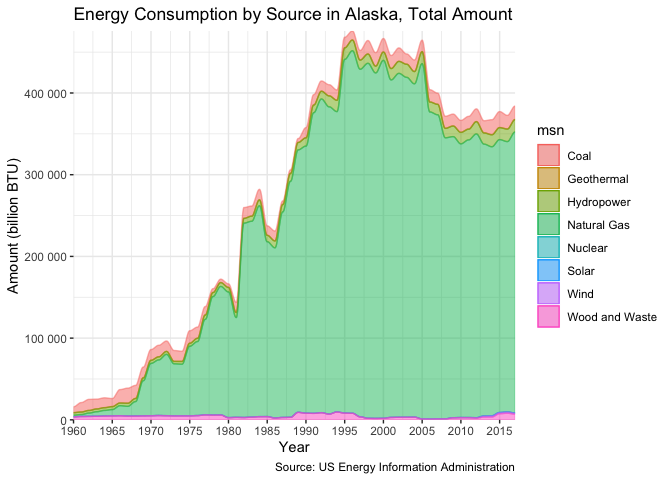
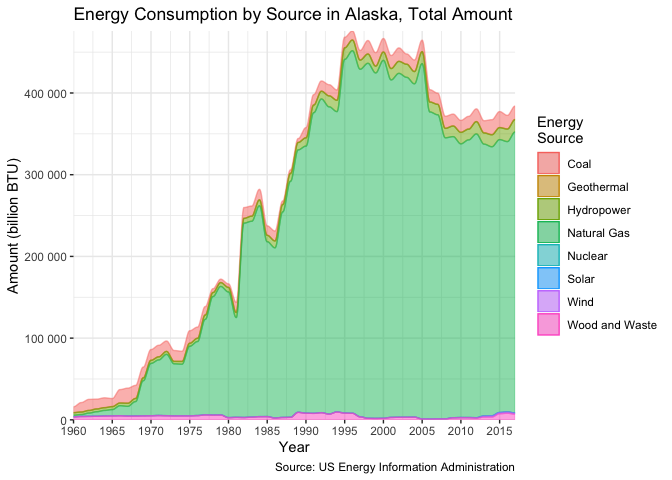
fix

Changed region(s): [[0.7812, 0.25, 1.0, 0.7188]]

diff --git a/eda/energy_consumption.md b/eda/energy_consumption.md
@@ -1,7 +1,7 @@
 Energy Consumption Sources by State
 ================
 Avery Rogers
-2020-02-02
+2020-02-05
 
   - [Part I: Energy Consumption for Electricity by State and
     Year](#part-i-energy-consumption-for-electricity-by-state-and-year)
@@ -13,14 +13,17 @@ Avery Rogers
       - [Example plot: Alaska](#example-plot-alaska)
       - [Greatest Consumers By
         Fraction](#greatest-consumers-by-fraction)
+      - [Example: Wood and Waste 2017](#example-wood-and-waste-2017)
   - [Part II: Energy Usage by
     Population](#part-ii-energy-usage-by-population)
       - [Cleaning Population Data](#cleaning-population-data)
       - [Combining The Tibbles](#combining-the-tibbles)
       - [Total Energy Consumption Per Capita by State over
         Time](#total-energy-consumption-per-capita-by-state-over-time)
+      - [Example States](#example-states)
       - [State energy consumption per capita by
         source](#state-energy-consumption-per-capita-by-source)
+      - [Example: Maine](#example-maine)
 
 ``` r
 # Libraries
@@ -199,7 +202,9 @@ plot_amount <- function(state_abbv, state) {
       x = "Year",
       y = "Amount (billion BTU)" ,
       title = str_glue("Energy Consumption by Source in {state}, Total Amount"),
-      caption = "Source: US Energy Information Administration"
+      caption = "Source: US Energy Information Administration",
+      color = "Energy\nSource",
+      fill = "Energy\nSource"
     ) +
     theme(
       panel.background = element_rect(fill = "white"),
@@ -261,11 +266,19 @@ greatest_consumer <- function(target_msn, target_year) {
       panel.grid.minor = element_line(color = "grey92")
     )
 } 
+```
 
+## Example: Wood and Waste 2017
+
+The northeastern states of Maine, New Hampshire, and Vermont consume a
+large fraction of energy sourced from wood and waste as of 2017. Who
+knew\!
+
+``` r
 greatest_consumer("Wood and Waste", 2017)
 ```
 
-![](energy_consumption_files/figure-gfm/unnamed-chunk-6-1.png)<!-- -->
+![](energy_consumption_files/figure-gfm/unnamed-chunk-7-1.png)<!-- -->
 
 # Part II: Energy Usage by Population
 
@@ -306,8 +319,6 @@ total_energy_population <-
   left_join(population_data_clean, by = c("year", "state")) %>% 
   mutate(amount_per_capita = amount / population_thousands)
 
-view(total_energy_population)
-
 fraction_energy_population <- 
   consumption_fractions %>% 
   left_join(population_data_clean, by = c("year", "state"))
@@ -343,11 +354,19 @@ per_capita_energy <- function(state_abbv) {
       panel.grid.minor = element_line(color = "grey92")
     )
 }
+```
 
+## Example States
+
+As we can see, variation among states’ per-capita energy consumption is
+high, with a state like Kentucky consuming nearly three times as many
+BTUs of energy per 1,000 people as California.
+
+``` r
 per_capita_energy(c("FL", "CA", "CT", "CO", "PA", "KY"))
 ```
 
-![](energy_consumption_files/figure-gfm/unnamed-chunk-9-1.png)<!-- -->
+![](energy_consumption_files/figure-gfm/unnamed-chunk-11-1.png)<!-- -->
 
 ## State energy consumption per capita by source
 
@@ -382,7 +401,15 @@ per_capita_compare <- function(state_abbv, state, msn_vars) {
     panel.grid.minor = element_line(color = "grey92")
   )
 }
+```
 
+## Example: Maine
+
+We see a sudden spike in natural gas consumption per capita in Maine
+that trails off after its peak. Hydropower and wood and waste power stay
+relatively constant after 1980.
+
+``` r
 per_capita_compare(
   "ME", 
   "Maine", 
@@ -390,4 +417,4 @@ per_capita_compare(
 )
 ```
 
-![](energy_consumption_files/figure-gfm/unnamed-chunk-10-1.png)<!-- -->
+![](energy_consumption_files/figure-gfm/unnamed-chunk-13-1.png)<!-- -->
